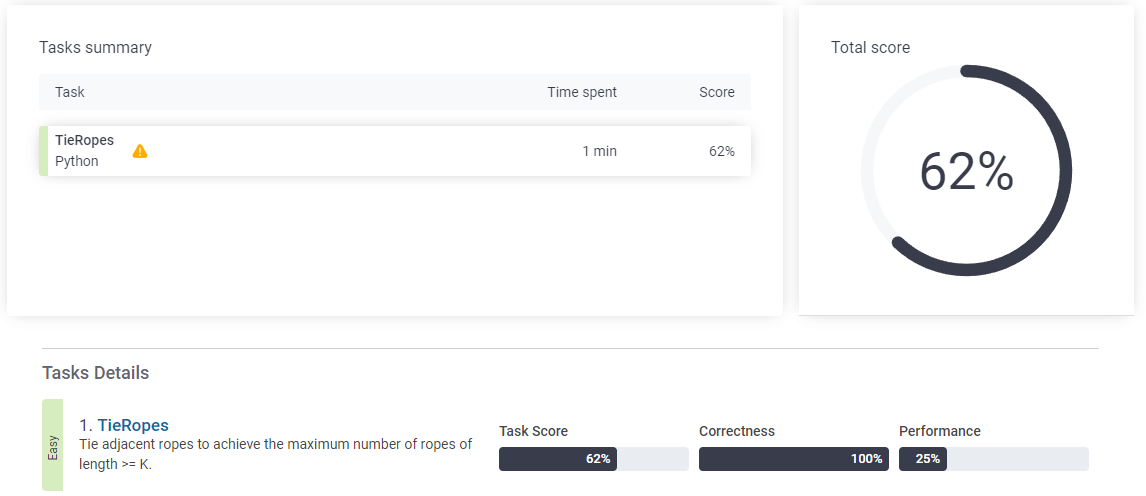
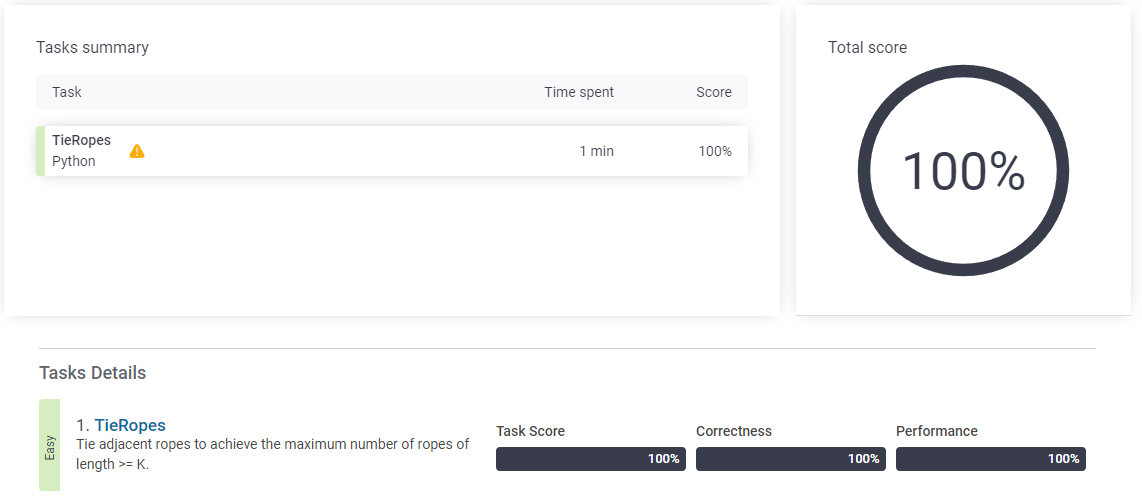
Aula10: Se hace segundo intento de tieRopes
- Se completa al 100%
- Se adjunta imagenes de resultados

diff --git a/13_aula10_algoritmosVoraces/tieRopes.py b/13_aula10_algoritmosVoraces/tieRopes.py
@@ -16,27 +16,25 @@ def tieRopes(K, A: list):
   lista A, ya que solo pueden ser unidas si son adyacentes. Cada vez que es
   sacada una cuerda >= K, es contada para el total de la respuesta final.
   """
+  # Numero de cuerdas
+  length = len(A)
 
   # Número de cuerdas >= K
   ropes = 0
 
+  #Tamaño de cuerda atada
+  tiedRope = 0 # Cuerda atada vacía
+
   # Se evalúan todas las cuerdas, menos la última
-  while len(A) > 1:
-    # Se saca la primera cuerda
-    actual = A.pop(0)
+  for i in range(length):
+    # Se une a cuerda atada
+    tiedRope += A[i]
 
-    # Se compara la longitud de la cuerda con K
-    if actual < K:
-      # Se une la cuerda sacada con la siguiente; forman una nueva cuerda
-      A.insert(0, actual + A.pop(0))
-    else:
-      # La cuerda es >= K, entonces aumenta el contador
+    # Se compara la longitud de la cuerda atada con K
+    if tiedRope >= K:
       ropes += 1
+      tiedRope = 0
   
-  # Se evalúa la última cuerda
-  if A[0] >= K:
-    ropes += 1
-
   # Retorna la respuesta
   return ropes
 
